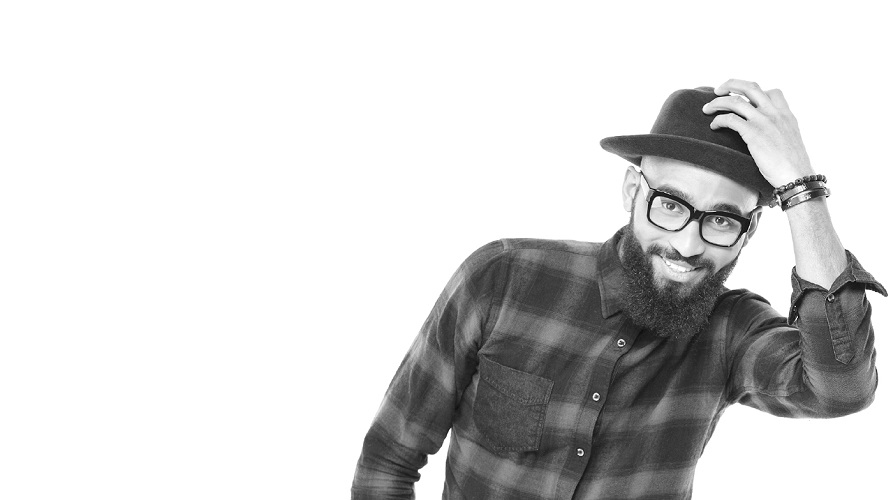
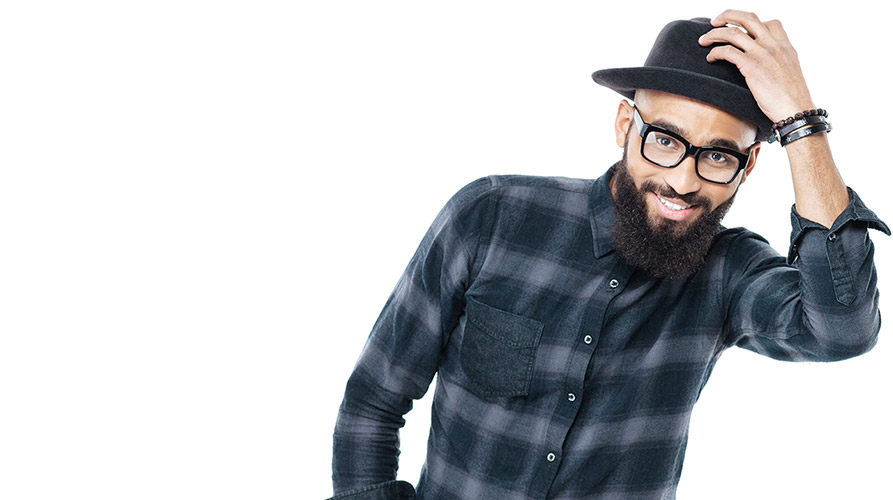
non css files for previous commits

diff --git a/main.css b/main.css
@@ -1,0 +1,23 @@
+/*
+Errno::ENOENT: No such file or directory @ rb_sysopen - _Src/main.scss
+
+Backtrace:
+C:/tools/ruby24/lib/ruby/gems/2.4.0/gems/sass-3.5.7/lib/sass/plugin/compiler.rb:454:in `read'
+C:/tools/ruby24/lib/ruby/gems/2.4.0/gems/sass-3.5.7/lib/sass/plugin/compiler.rb:454:in `update_stylesheet'
+C:/tools/ruby24/lib/ruby/gems/2.4.0/gems/sass-3.5.7/lib/sass/plugin/compiler.rb:215:in `block in update_stylesheets'
+C:/tools/ruby24/lib/ruby/gems/2.4.0/gems/sass-3.5.7/lib/sass/plugin/compiler.rb:209:in `each'
+C:/tools/ruby24/lib/ruby/gems/2.4.0/gems/sass-3.5.7/lib/sass/plugin/compiler.rb:209:in `update_stylesheets'
+C:/tools/ruby24/lib/ruby/gems/2.4.0/gems/sass-3.5.7/lib/sass/plugin/compiler.rb:294:in `watch'
+C:/tools/ruby24/lib/ruby/gems/2.4.0/gems/sass-3.5.7/lib/sass/plugin.rb:109:in `method_missing'
+C:/tools/ruby24/lib/ruby/gems/2.4.0/gems/sass-3.5.7/lib/sass/exec/sass_scss.rb:358:in `watch_or_update'
+C:/tools/ruby24/lib/ruby/gems/2.4.0/gems/sass-3.5.7/lib/sass/exec/sass_scss.rb:51:in `process_result'
+C:/tools/ruby24/lib/ruby/gems/2.4.0/gems/sass-3.5.7/lib/sass/exec/base.rb:50:in `parse'
+C:/tools/ruby24/lib/ruby/gems/2.4.0/gems/sass-3.5.7/lib/sass/exec/base.rb:18:in `parse!'
+C:/tools/ruby24/lib/ruby/gems/2.4.0/gems/sass-3.5.7/bin/sass:13:in `<top (required)>'
+C:/tools/ruby24/bin/sass:23:in `load'
+C:/tools/ruby24/bin/sass:23:in `<main>'
+*/
+body:before {
+  white-space: pre;
+  font-family: monospace;
+  content: "Errno::ENOENT: No such file or directory @ rb_sysopen - _Src/main.scss"; }

diff --git a/assets/js/site.js b/assets/js/site.js
@@ -19,10 +19,10 @@ $(document).ready(function(){
 
   // Sets url for initial photo on banner
   // Grab the image
-  var initialPhoto = $(".banner.home>img").first().attr('src');
+  var initialPhoto = $(".banner.home>img, .banner.get-involved>img").first().attr('src');
   initialPhoto = "url('" + initialPhoto + "')";
   // Set the background
-  $(".banner.home").css("background-image", initialPhoto);
+  $(".banner.home, .banner.get-involved").css("background-image", initialPhoto);
 
   // Code for Carousel on Home page
   // Images are input in cms or by devs as empty img elements right under .banner (.banner > img)
@@ -34,7 +34,7 @@ $(document).ready(function(){
   // 5. Waits 6 seconds then does it again
   // Code stays aware of browser size through scrset atttribute on img tags;
 
-  var photos = $(".banner.home>img").toArray();
+  var photos = $(".banner.home>img, .banner.get-involved>img").toArray();
 
   window.setInterval(changePhoto, 6000);
 
@@ -42,7 +42,7 @@ $(document).ready(function(){
     photos.push(photos.shift());
     var newBackground = photos[0];
     newBackground = $(newBackground).prop('currentSrc');
-    $(".banner.home").css("background-image", "url("+ newBackground +")");
+    $(".banner.home, .banner.get-involved").css("background-image", "url("+ newBackground +")");
   }
 
 })

diff --git a/inc/donations.php b/inc/donations.php
@@ -26,7 +26,7 @@
         <input type="text" name="monthly" value="" placeholder="Monthly" readonly>
       </div>
       <div class="calculator">
-        <p>A <span class="donation-amount">x100</span>donation provides:</p>
+        <p>A $<span class="donation-amount">100</span> donation provides:</p>
         <div class="calculator-results">
           <div class="calculation apple">
             <img src="/assets/img/apple.png" />
@@ -70,11 +70,11 @@
         </div>
         <div class="address-line">
           <label>State and Zip</label>
-          <div class="state-zip"><input type="text" name="state" placeholder="State"><input type="input" name="zipcode" placeholder="Zip"></div>
+          <div class="state-zip"><input type="text" name="state" placeholder="State"><input type="text" name="zipcode" placeholder="Zip"></div>
         </div>
         <div class="address-line amount">
           <label>Amount</label>
-          <input type="text" name="amount"><span class="amount-sidetext">Out of 100</span>
+          <input type="text" name="amount" placeholder="$"><span class="amount-sidetext">Out of $100</span>
         </div>
         <p class="admin-fees">Administrative Fees Apply. <a href="#">Learn More</a></p>
       </div>
@@ -89,19 +89,36 @@
         </div>
         <div class="address-line">
           <label>Email</label>
-          <input type="text" name="email">
+          <div class="email-sent">
+            <input type="text" name="email">
+            <span class="parenthetical">Your email will be sent here</span>
+          </div>
         </div>
         <div class="address-line">
-          <label>Phone<span class="parenthetical">Optional</span></label>
+          <label>Phone <span class="parenthetical">(Optional)</span></label>
           <input type="text" name="phone">
         </div>
         <div class="checkmark no-bottom-margin">
           <input type="checkbox" name="newsletter" checked="checked">
           <label for="newsletter" class="css-label">Send me quarterly updates</label>
         </div>
-        <div class="checkmark">
-          <input type="checkbox" class="css-checkbox" class="no-margin" name="dedicate" checked="checked">
-          <p>Dedicate my gift</p>
+        <div class="doner-name-box">
+          <div class="radio-line">
+            <div>
+              <input type="radio" class="css-radio" id="donor" name="donor">
+              <label for="leavename">It's fine to use my name</label>
+            </div>
+            <input type="text" name="donorname">
+          </div>
+          <div class="radio-line">
+            <input type="radio" class="css-radio" id="ananymous" name="donor">
+            <label for="anonymous">I'd like to remain anonymous</label>
+          </div>
+          <div class="radio-line">
+            <input type="radio" class="dedicated" id="dedicate" name="donor">
+            <label for="dedicate">Dedicate my gify to the memory of someone</label>
+          </div>
+          <input type="text" name="dedicatedto">
         </div>
         <div class="address-line">
           <label>Honorees' Name</label>
@@ -120,8 +137,13 @@
         </div>
       </div>
       <div class="payment-details">
-        <h2>Payment Details</h2>
-        <div class="checkmark"><input type="checkbox" class="css-checkbox" class="no-margin" name="dedicate" checked="checked"><p>I'd prefer to pay by mail</p></div>
+        <div class="h-2-check">
+          <h2>Payment Details</h2>
+          <div class="checkmark">
+            <input type="checkbox" class="css-checkbox" name="mailpay">
+            <p>I'd prefer to pay by mail</p>
+          </div>
+        </div>
         <p>We'll send you mailing instructions once this form is submitted</p>
         <div class="address-line">
           <label>Name</label>
@@ -156,7 +178,7 @@
         </div>
         <div class="address-line">
           <label>State and Zip</label>
-          <div class="state-zip"><input type="text" name="cardstate" placeholder="State"><input type="input" name="cardzipcode" placeholder="Zip"></div>
+          <div class="state-zip"><input type="text" name="cardstate" placeholder="State"><input type="text" name="cardzipcode" placeholder="Zip"></div>
         </div>
       </div>
       <div class="checkmark">

diff --git a/inc/events.php b/inc/events.php
@@ -4,7 +4,7 @@
     <div class="events-box">
       <div class="event-box">
         <h2>Annual Campaign Celebration</h2>
-        <div class="event details">
+        <div class="event-details">
           <div class="event-row"><span class="event-date">Thursday, March 22, 2018</span> | <span class="event-time">5:30 - 7:00pm</span></div>
           <div class="event-row"><span class="event-venue">Bellingham Technical College - Settlemyer Family Hall</span></div>
           <div class="event-row"><span class="event-address">3028 Lindbergh Avenue, Bellingham, WA 98225</span></div>
@@ -16,7 +16,7 @@
       </div>
       <div class="event-box">
         <h2>Annual Campaign Celebration</h2>
-        <div class="event details">
+        <div class="event-details">
           <div class="event-row"><span class="event-date">Thursday, March 22, 2018</span> | <span class="event-time">5:30 - 7:00pm</span></div>
           <div class="event-row"><span class="event-venue">Bellingham Technical College - Settlemyer Family Hall</span></div>
           <div class="event-row"><span class="event-address">3028 Lindbergh Avenue, Bellingham, WA 98225</span></div>

diff --git a/inc/get-involved-calc.php b/inc/get-involved-calc.php
@@ -1,13 +1,8 @@
-<!doctype html>
-<?php
-  $root_path = $_SERVER['DOCUMENT_ROOT'] . "/unitedwaywhatcom";
-  include $root_path . '/inc/header.php';
-?>
 <div class="get-involved-calc">
   <div class="headline">
     <h1>Give <span class="breadcrumb">/ IMPACT CAlculator</span></h1>
-    <span>You decided to Join</span>
-    <span>Us in the fight.</span>
+    <span>Select an amount</span>
+    <span>See the impact.</span>
   </div>
   <div class="donation-form">
     <div class="donate-buttons">
@@ -35,7 +30,7 @@
       <input type="text" name="monthly" value="" placeholder="Monthly" readonly>
     </div>
     <div class="calculator">
-      <p>A <span class="donation-amount">x100</span>donation provides:</p>
+      <p>A $<span class="donation-amount">100</span> donation provides:</p>
       <div class="calculator-results">
         <div class="calculation apple">
           <img src="/assets/img/apple.png" />
@@ -57,6 +52,3 @@
     <a href="#"><button class="orange-bg">Lets Do This!</button>
   </div>
 </div>
-<?php
-  include $root_path . '/inc/footer.php';
-?>

diff --git a/inc/home.php b/inc/home.php
@@ -5,7 +5,7 @@
         /assets/img/oldmantablet.jpg 893w,
         /assets/img/oldmanphone.jpg 535w
       "
-      src="/assets/img/oldmantablet.jpg"
+      src="/assets/img/oldmanfull.jpg"
     />
     <img
       srcset="
@@ -13,7 +13,24 @@
         /assets/img/hatmantablet.jpg 893w,
         /assets/img/hatmanphone.jpg 535w
       "
-      src="/assets/img/hatmantablet.jpg" />
+      src="/assets/img/hatman.jpg"
+    />
+    <img
+      srcset="
+        /assets/img/kidsmile.jpg 1400w,
+        /assets/img/kidsmiletablet.jpg 893w,
+        /assets/img/kidsmilephone.jpg 535w
+      "
+      src="/assets/img/hatman.jpg"
+    />
+    <img
+      srcset="
+        /assets/img/womancook.jpg 1400w,
+        /assets/img/womancooktablet.jpg 893w,
+        /assets/img/womancookphone.jpg 535w
+      "
+      src="/assets/img/womancook.jpg"
+    />
     <div class="headline">
       <span class="lightblue-bg">we have one life.</span>
       <span class="lightblue-bg">to live better, we must</span>

diff --git a/inc/get-involved.php b/inc/get-involved.php
@@ -1,9 +1,25 @@
 <section class="banner get-involved">
+  <img
+    srcset="
+      /assets/img/getinvolved.jpg 1400w,
+      /assets/img/getinvolved.jpg 893w,
+      /assets/img/getinvolved.jpg 535w
+    "
+    src="/assets/img/getinvolved.jpg"
+  />
+  <img
+    srcset="
+      /assets/img/getinvolvednohat.jpg 1400w,
+      /assets/img/getinvolvednohat.jpg 893w,
+      /assets/img/getinvolvednohat.jpg 535w
+    "
+    src="/assets/img/getinvolved.jpg"
+  />
   <div class="headline">
     <h1>Give</h1>
     <span class="black-bg">You decided to Join</span>
     <span class="black-bg">Us in the fight.</span>
-    <span class="orange-bg">Thank You.</span>
+    <span class="darkorange-bg">Thank You.</span>
   </div>
   <div class="square-links">
     <div class="square">

diff --git a/inc/donations-complete.php b/inc/donations-complete.php
@@ -1,9 +1,9 @@
 <div class="confirm-screen">
   <div class="headline">
-    <span>Thank You!</span>
-    <p>Your donation was successfully processed.
-      Your confirmation number is 123-456.
-      An email receipt has been sent to: johndoe@gmail.com</p>
+    <span><b>Thank you!</b></span>
+    <p>Your donation was successfully processed.<br / >
+    Your confirmation number is 123-456.<br / >
+    An email receipt has been sent to: johndoe@gmail.com</p>
   </div>
   <div class="address-box-container">
     <h3>Sending your check</h3>

diff --git a/inc/header.php b/inc/header.php
@@ -1,6 +1,6 @@
 <html lang="en">
   <head>
-    <link type="text/css" rel="stylesheet" href="assets/css/main.css">
+    <link type="text/css" rel="stylesheet" href="/assets/css/main.css">
     <meta name="viewport" content="width=device-width, initial-scale=1.0">
     <script src="https://ajax.googleapis.com/ajax/libs/jquery/3.3.1/jquery.min.js"></script>
   </head>

diff --git a/inc/bootstrap.php b/inc/bootstrap.php
@@ -1,5 +1,5 @@
 <?php
-$root_path = $_SERVER['DOCUMENT_ROOT'] . "/unitedwaywhatcom";
+$root_path = dirname(__DIR__);
 if (getenv('PREVIEW')) {
     $root_path = dirname(__DIR__);
 }
